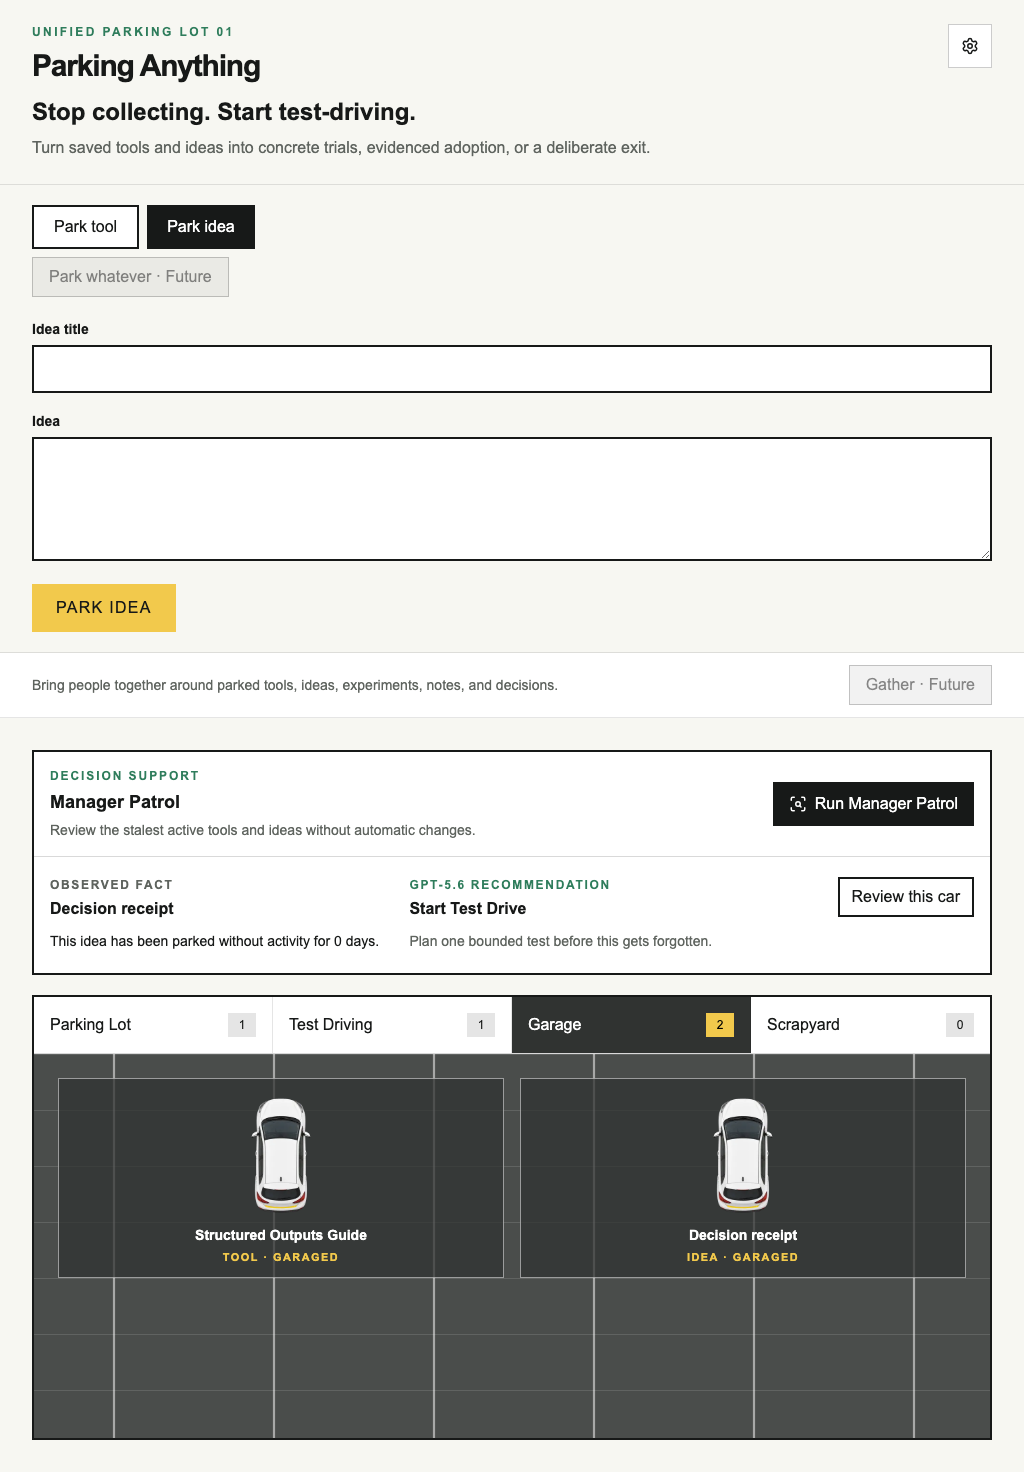
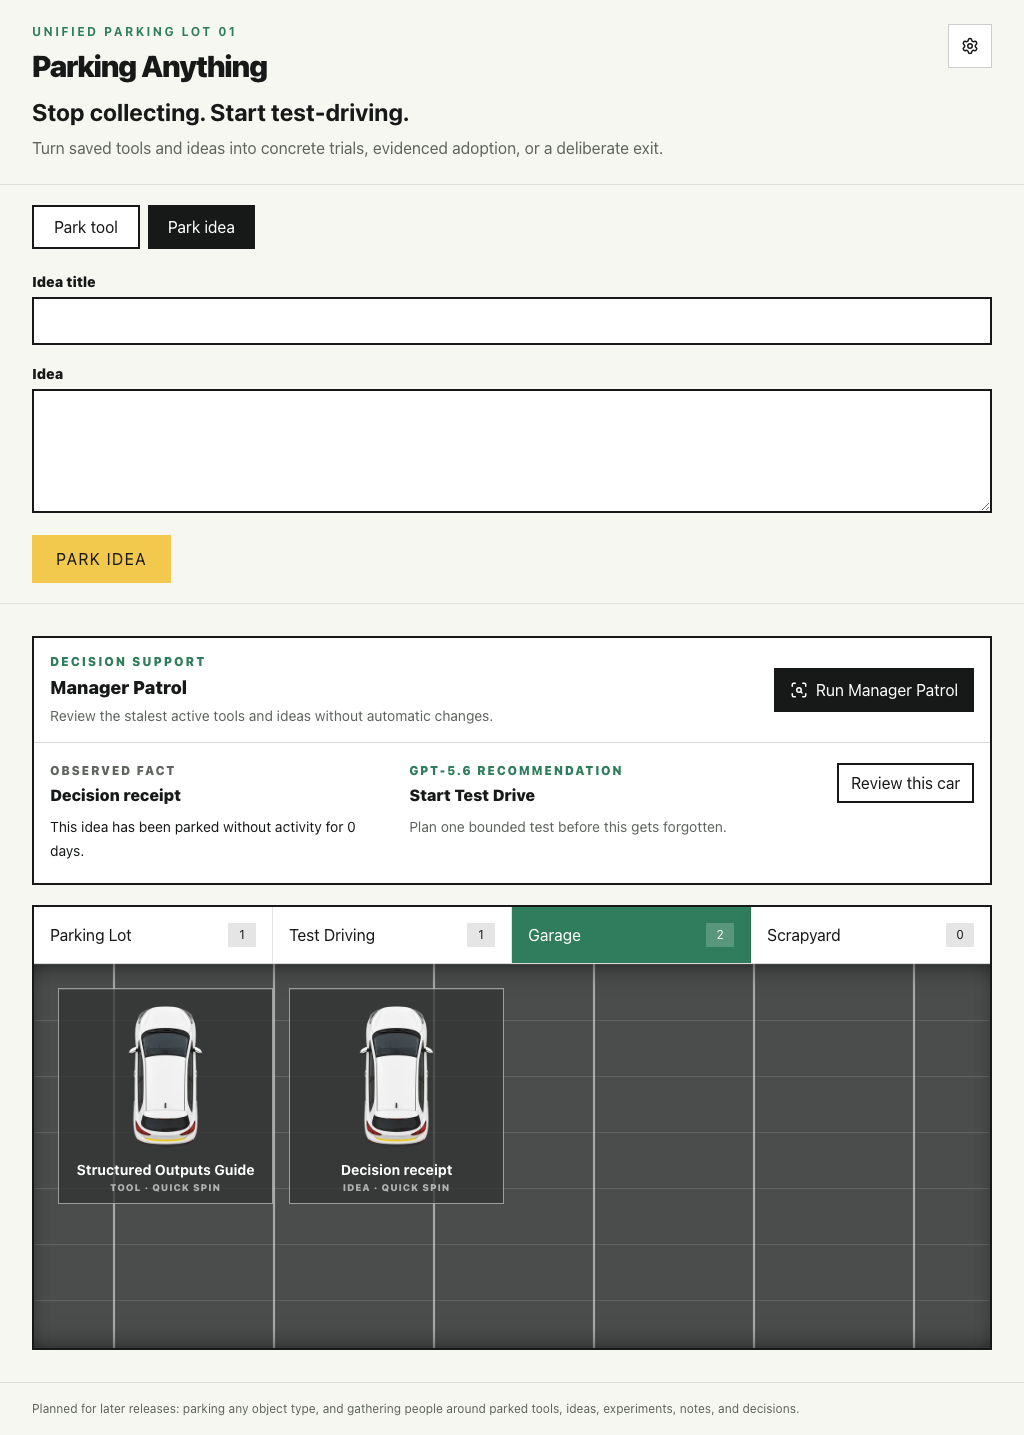
fix: stop a git worktree polluting lint and test runs
`npm run lint` reported 561 errors and `npm test` 7 failures that came entirely
from a second checkout under .worktrees, not from this project's source. Both
tools now ignore that path, so a worktree can be created again without the
suites reporting the other checkout's results.

Also raises the mobile grid row to 12.5rem. The desktop rows grew with the
taller card content but the max-width:640px override did not, squeezing the car
art to almost nothing.

The QA screenshot matrix is regenerated across all three viewports. It could not
be rebuilt while the calendar-sensitive assertion failed part-way through, so it
had been stale; that assertion is fixed on the merged branch and the full
Playwright suite now completes.

diff --git a/vitest.config.ts b/vitest.config.ts
@@ -8,7 +8,9 @@ export default defineConfig({
   },
   test: {
     environment: "jsdom",
-    exclude: [...configDefaults.exclude, "e2e/**"],
+    // A git worktree carries its own copy of this suite; without excluding it,
+    // `npm test` runs both checkouts and reports the other one's failures.
+    exclude: [...configDefaults.exclude, "e2e/**", ".worktrees/**"],
     setupFiles: ["./vitest.setup.ts"],
     restoreMocks: true,
   },

diff --git a/src/app/globals.css b/src/app/globals.css
@@ -314,7 +314,8 @@ h3 {
 @media (max-width: 640px) {
   .parking-grid {
     grid-template-columns: repeat(2, minmax(0, 1fr));
-    grid-auto-rows: 10.5rem;
+    /* Matches the desktop row growth; 10.5rem squeezed the car art to nothing. */
+    grid-auto-rows: 12.5rem;
   }
 
   .empty-stall {
